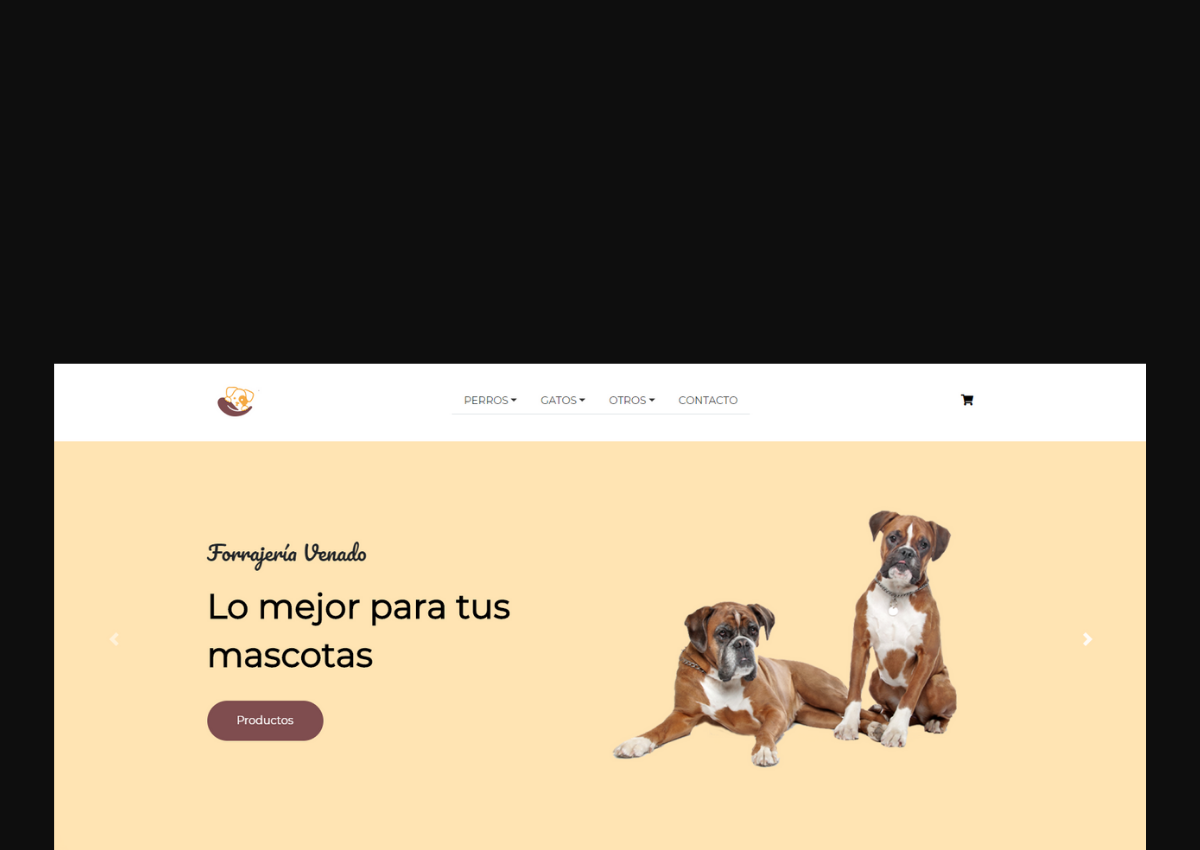
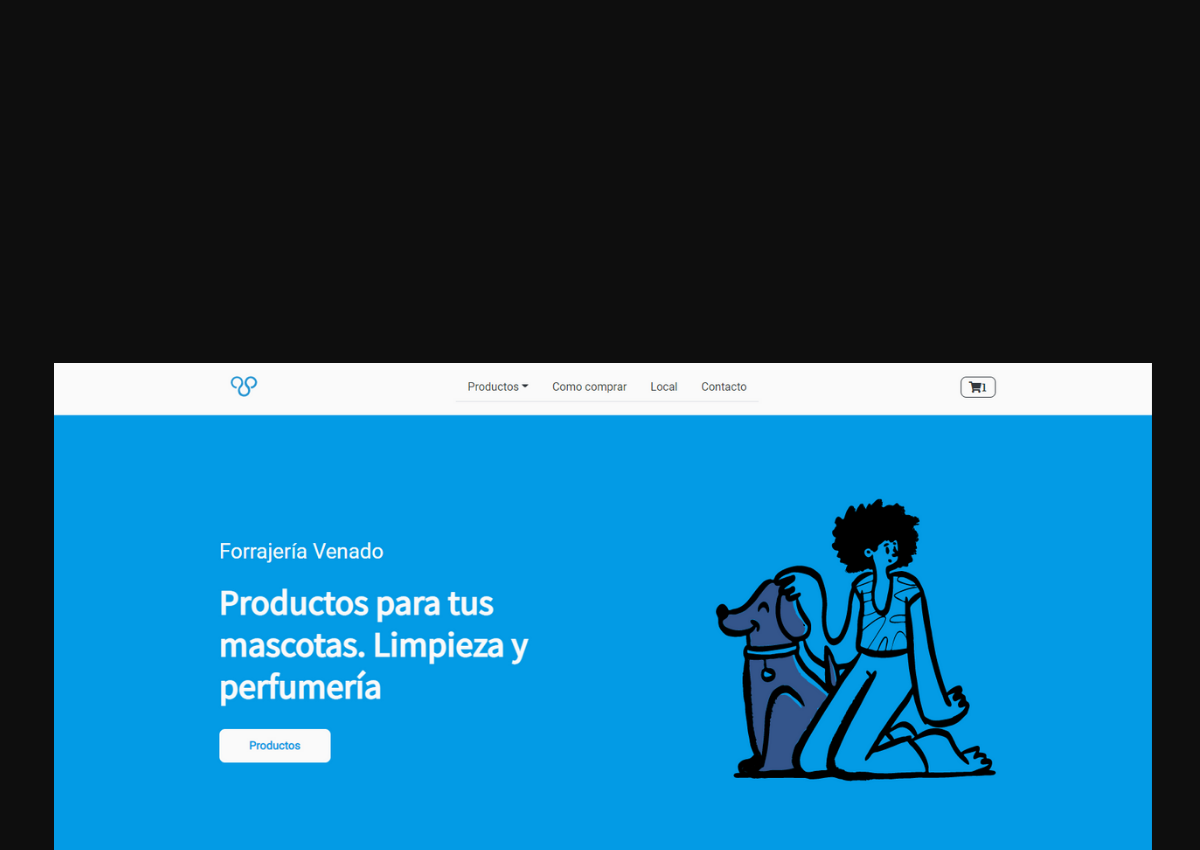
Actualizacion de portfolio y agregada pagina de links

diff --git a/index.html b/index.html
@@ -32,6 +32,9 @@
                       <a class="nav-link" target="blank" href="https://drive.google.com/file/d/116IMBN5p9ONZ6f3pHz_L2laefy9e7pfY/view?usp=sharing">Curriculum</a>
                     </li>
                     <li class="nav-item">
+                        <a class="nav-link" target="blank" href="https://collectednotes.com/amado">Blog</a>
+                      </li>
+                    <li class="nav-item">
                       <a class="nav-link" data-toggle="modal" data-target="#exampleModal">Contacto</a>
                     </li>
                   </ul>
@@ -91,7 +94,7 @@
                </a>
             </div>
             <div class="card bg-dark text-white" >
-                <a class="text-white" href="404.html">
+                <a class="text-white" target="blank" href="https://forrajeria-venado.web.app/">
                     <img src="assets/port/shop.png" class="card-img" alt="...">
                 <div class="card-img-overlay">
                   <h5 class="card-title">Pet Shop</h5>
@@ -181,6 +184,7 @@
             <a href="javascript:void(0)" class="closebtn" onclick="closeNav()">&times;</a>
             <a href="#portfolio" onclick="closeNav()">Portfolio</a>
             <a target="blank" href="https://drive.google.com/file/d/1lTJBcg5Lp72fFZoT2pXfCnpdWgyJEPjG/view?usp=sharing" onclick="closeNav()">Curriculum</a>
+            <a target="blank" href="https://collectednotes.com/amado" onclick="closeNav()">Blog</a>
             <a data-toggle="modal" data-target="#exampleModal" onclick="closeNav()">Contacto</a>
         </div>
     </div>

diff --git a/links.html b/links.html
@@ -1,0 +1,32 @@
+<!DOCTYPE html>
+<html lang="en">
+<head>
+    <meta charset="UTF-8">
+    <meta http-equiv="X-UA-Compatible" content="IE=edge">
+    <meta name="viewport" content="width=device-width, initial-scale=1.0">
+    <link href="https://cdn.jsdelivr.net/npm/bootstrap@5.0.0-beta3/dist/css/bootstrap.min.css" rel="stylesheet" integrity="sha384-eOJMYsd53ii+scO/bJGFsiCZc+5NDVN2yr8+0RDqr0Ql0h+rP48ckxlpbzKgwra6" crossorigin="anonymous">
+    <link rel="stylesheet" href="links.css">
+    <title>Links de Amado</title>
+</head>
+<body>
+    <div class="container">
+        <div class="row top50">
+            <div class="col-md-2"></div>
+            <div class="col-md-8 center">
+                <img src="assets/me.jpg" class="photo" alt="Yo">
+                <p>@amabk_</p>
+                <a href="https://twitter.com/amabk_" class="btn">Twitter</a>
+                <a href="https://www.instagram.com/amadeuss99/" class="btn">Instagram</a>
+                <a href="https://amadoabaca.web.app/" class="btn">Web</a>
+                <a href="https://github.com/amadoabaca" class="btn">GitHub</a>
+                <a href="https://www.linkedin.com/in/amado-abaca-59845a1b4/" class="btn">LinkedIn</a>
+                <a href="https://collectednotes.com/amado" class="btn">Collected Notes</a>
+                <a href="https://cafecito.app/amado" class="btn">Cafecito</a>
+                <hr>
+                <img src="assets/logo-white.svg" class="logo" alt="Logo">
+            </div>
+            <div class="col-md-2"></div>
+        </div>
+    </div>
+</body>
+</html>

diff --git a/links.css b/links.css
@@ -1,0 +1,38 @@
+body{
+    background: #0e0e0e;
+}
+.top50{
+    margin-top: 50px;
+}
+.center{
+    text-align: center;
+}
+
+.photo{
+    border-radius: 100%;
+    width: 90px;
+    height: 90px;
+    object-fit: cover;
+}
+p{
+    color: #fafafa;
+}
+.btn{
+    display: block;
+    border: solid 2px white;
+    border-radius: 0px;
+    width: 100%;
+    padding: 10px;
+    color: white;
+    margin-bottom: 20px;
+}
+.btn:hover{
+    color: #0e0e0e;
+    background: #fafafa;
+    transition: .3s;
+}
+.logo{
+    padding-top: 50px;
+    width: 180px;
+    padding-bottom: 100px;
+}

diff --git a/scripts.js b/scripts.js
@@ -2,15 +2,13 @@
 // side
 
 function openNav() {
-	document.getElementById("mySidebar").style.width = "300px";
-	document.getElementById("main").style.marginLeft = "300px";
-  }
+	document.getElementById("mySidebar").style.width = "300px";	
+}
   
 
   function closeNav() {
 	document.getElementById("mySidebar").style.width = "0";
-	document.getElementById("main").style.marginLeft = "0";
-  }
+}
 
 //   go top
 
